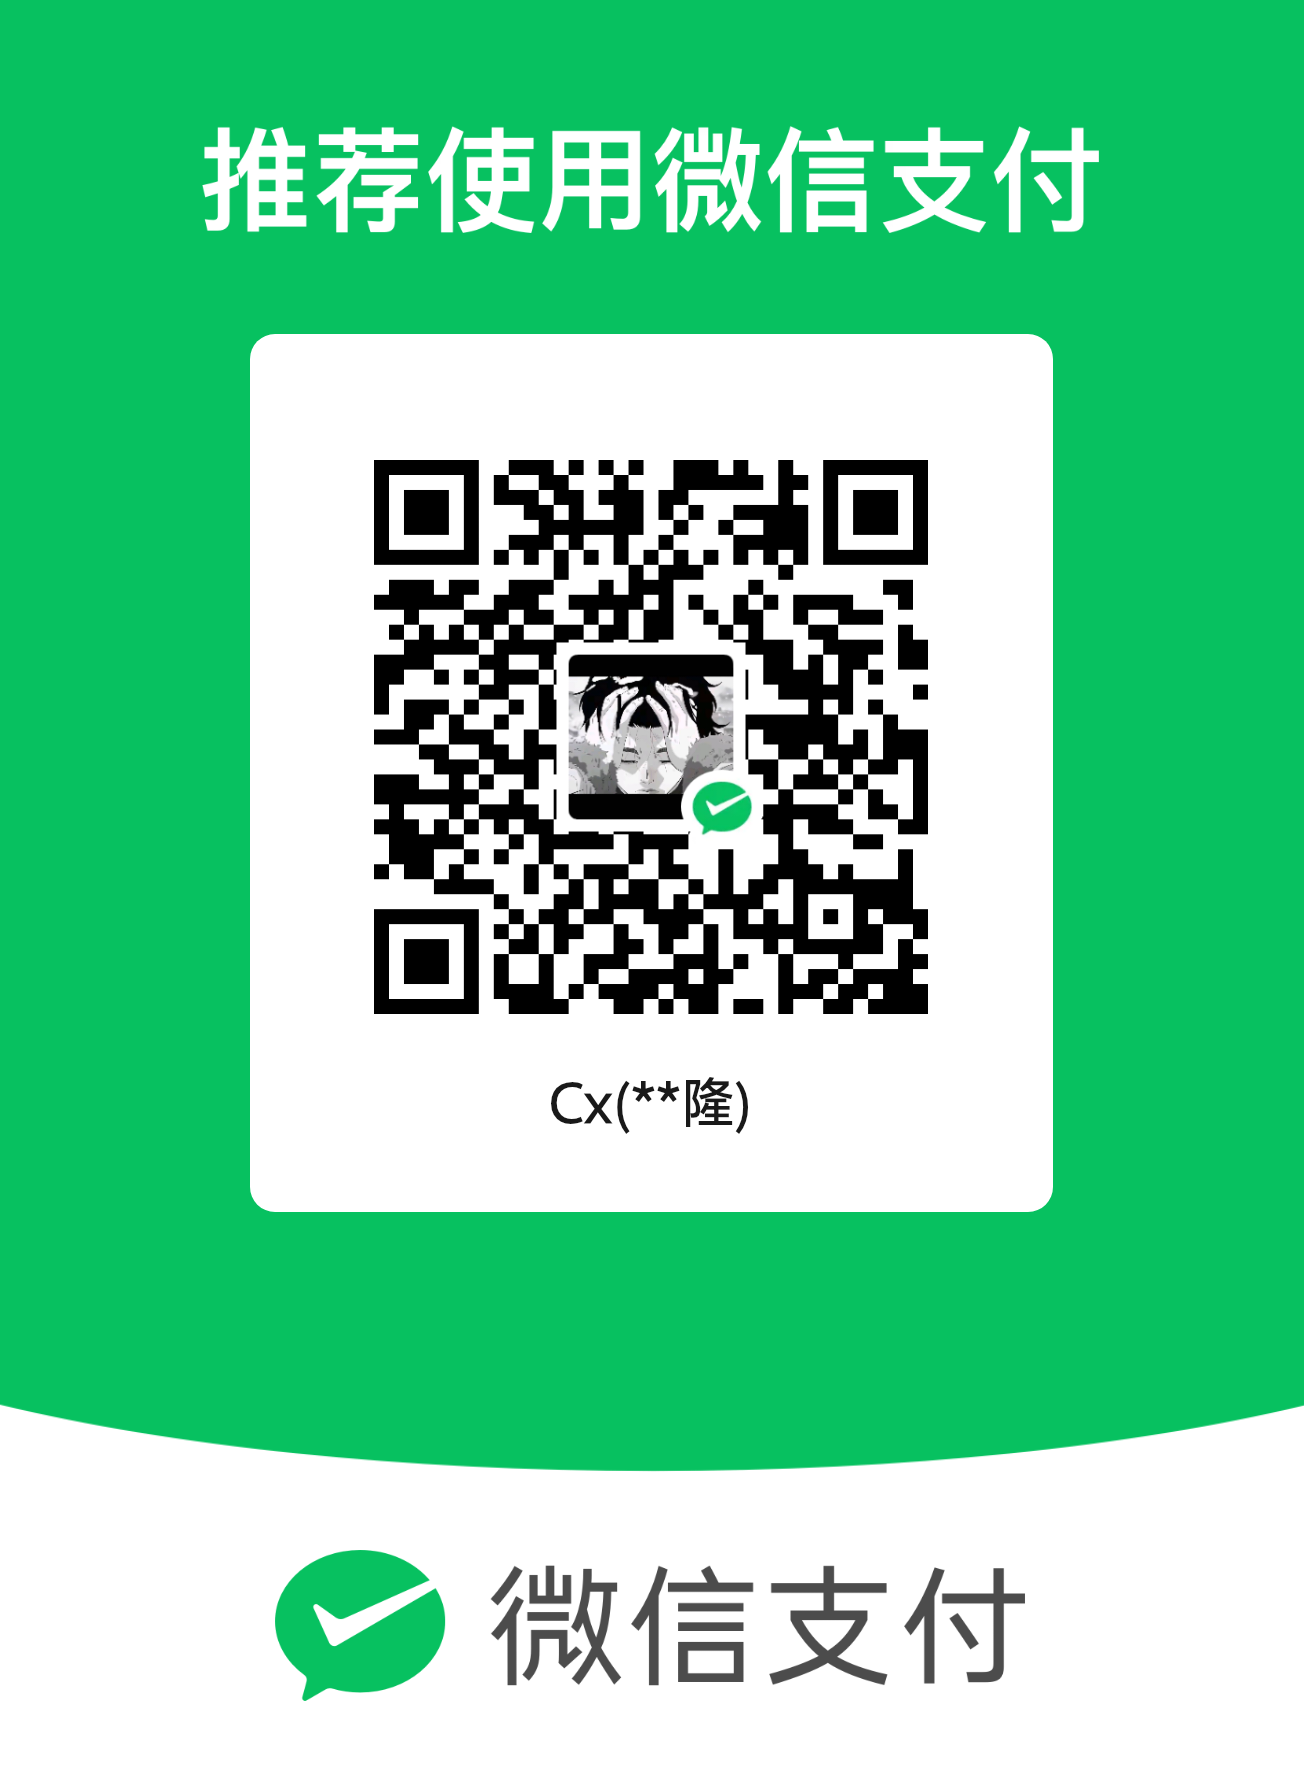
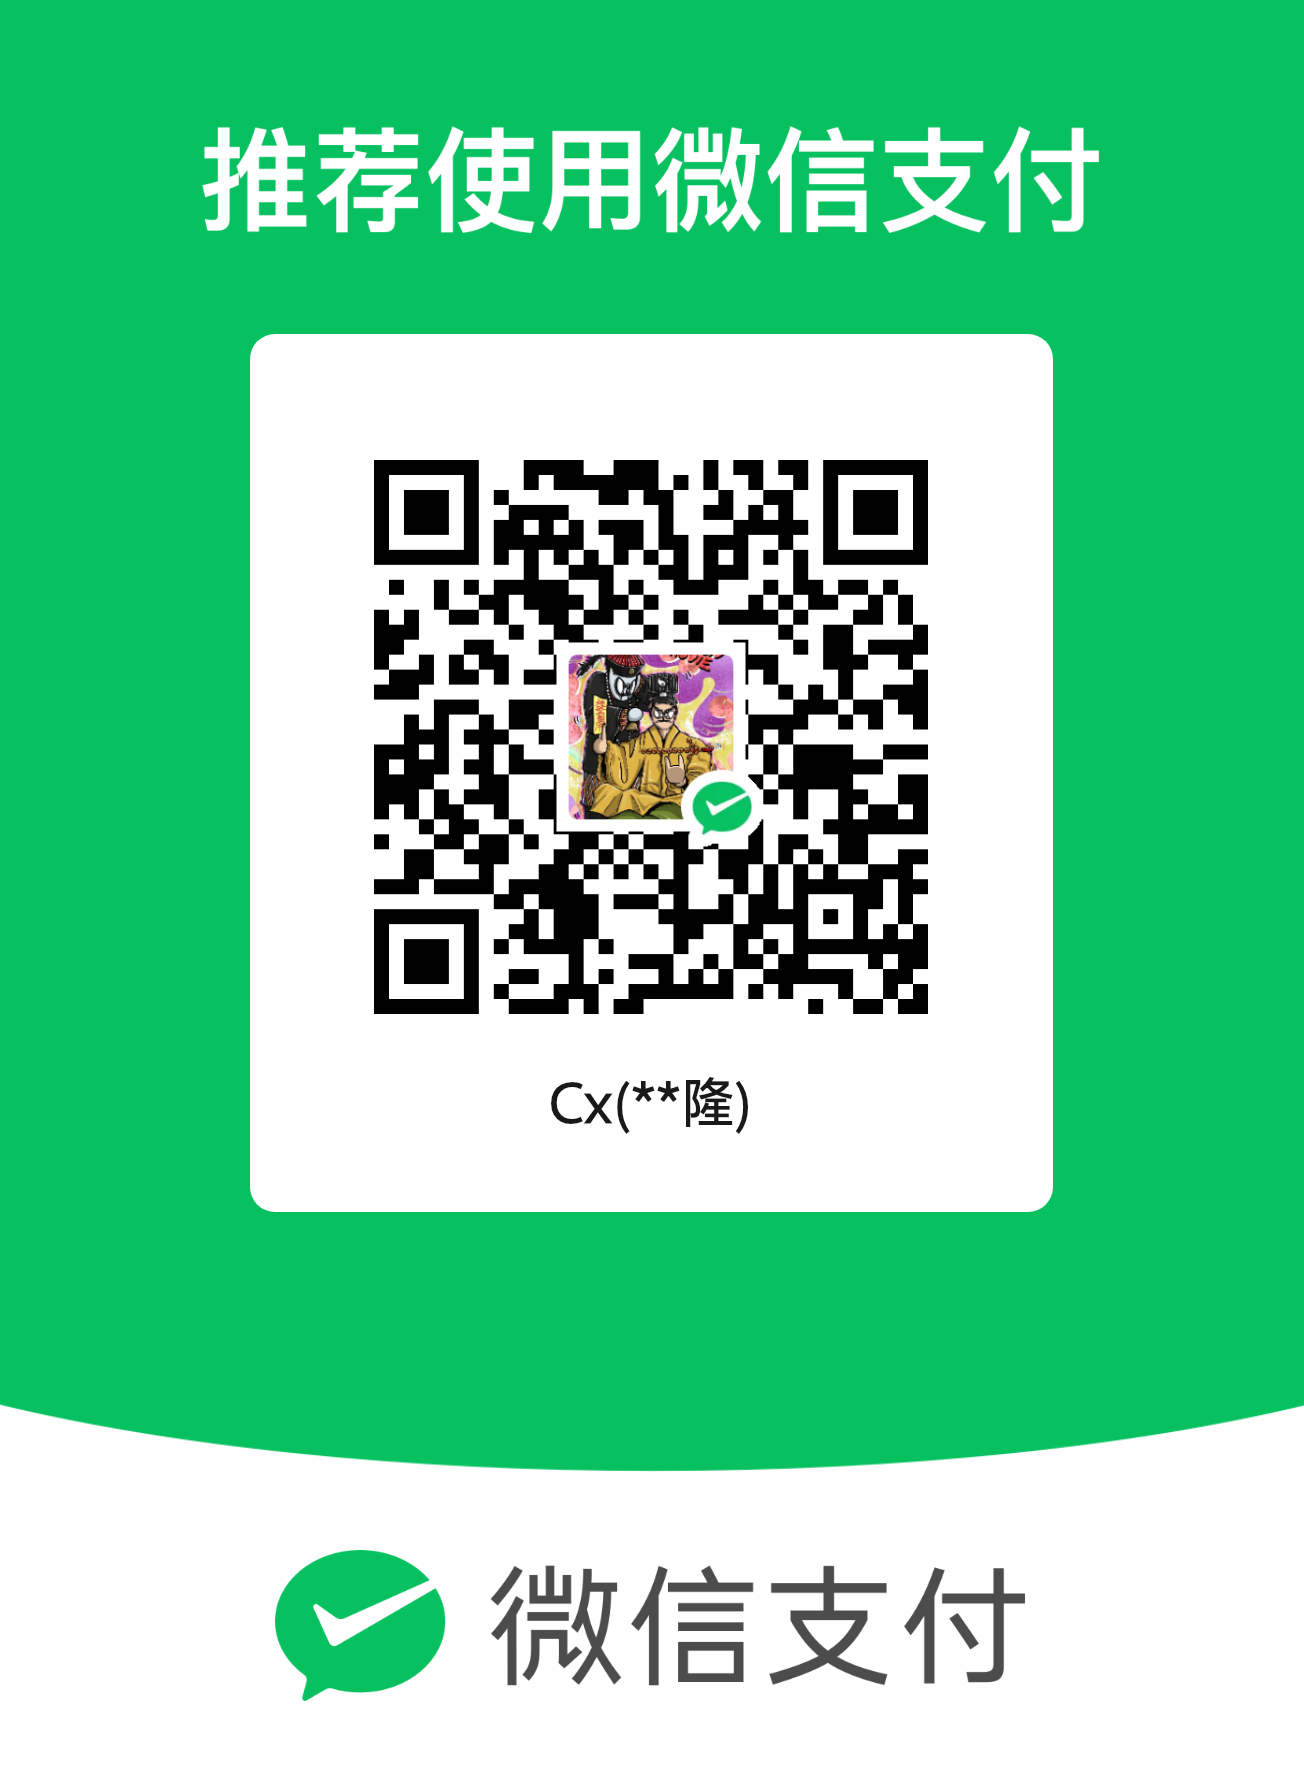
支持页：换新的微信支付收款码，并加上微信加好友二维码
站长给的两张图。收款码沿用原文件名 support-qr.png 就地替换 —— 它被 5 处引用
（src.html / index.html / web 的 vite.config、gen-sw、Support.vue），改名的话
5 处都要动，收益为零。加好友码是新文件 support-wechat.png。

两端都改了（MIGRATION.md 要求 Vue 端复刻旧站）：
· src.html：收款码 alt 改成「微信支付收款二维码」；联系作者栏 QQ 下面加一块加好友码
· web/：Support.vue 加同样一块，vite.config 的资源拷贝清单和 gen-sw 的
  预缓存白名单都带上新文件，否则 Vue 端构建出来图片是 404

二维码容器底色写死 #fff（沿用收款码原有做法）：深色主题下如果跟着主题变深底，
扫码识别率会明显下降。实测深浅两套主题下容器底色都是 rgb(255,255,255)。

这台机器没有 ImageMagick / PIL，所以只做了无损的 zlib 重压缩（解开 IDAT 用
最高等级压回去，不动像素和滤波器，三种 strategy 取最小）：
  support-qr.png     180KB → 173KB
  support-wechat.png 240KB → 223KB
压完验过 PNG 结构与 IDAT 可解（块序 IHDR,sRGB,sBIT,IDAT,IEND 完整）。

实测（真浏览器，深浅两套主题）：两张图都 loading="lazy" 正常加载、
原始尺寸 1304×1777 / 958×1415、显示 274×373 / 184×272、无 404、零报错。
25 项 verify 全绿。

Claude-Session: https://claude.ai/code/session_01SJJkU3Ea3fpiJY8gJHRUUb

Changed region(s): [[0.2761, 0.2476, 0.7362, 0.5881]]

diff --git a/index.html b/index.html
@@ -1572,7 +1572,7 @@ input[type=checkbox]{width:20px;height:20px;accent-color:var(--gold)}
     <h2 class="page-title">支持作者 · 请杯咖啡 ☕</h2>
     <p style="text-align:center;font-size:14px;color:var(--text-dim);line-height:1.9;max-width:520px;margin:0 auto">这份手册从词句整理、发音朗读到测验复习，都是<b>业余时间一点点做出来、并持续维护</b>的；域名和时间都是实打实的成本。它<b>一直免费、无广告</b>。<br>如果它在你学外语的路上帮上了忙，欢迎扫码<b>随手打赏一点</b>，让它能继续更新下去 😊<br>一块两块都是心意，谢谢你的支持！</p>
     <div style="max-width:290px;margin:18px auto 0;background:#fff;border-radius:16px;padding:8px;box-shadow:var(--shadow)">
-      <img src="support-qr.png" alt="微信收款二维码" loading="lazy" style="width:100%;height:auto;display:block;border-radius:12px">
+      <img src="support-qr.png" alt="微信支付收款二维码" loading="lazy" style="width:100%;height:auto;display:block;border-radius:12px">
     </div>
     <p style="text-align:center;font-size:12px;color:var(--text-faint);margin-top:12px">微信扫一扫 · 感谢每一份支持 ❤</p>
     <p style="text-align:center;font-size:11px;color:var(--text-faint);margin-top:18px">词典兜底数据来源：<a href="https://github.com/gugray/HanDeDict" style="color:var(--text-faint)" rel="license noopener" target="_blank">HanDeDict</a>（CC BY-SA 3.0）</p>
@@ -1581,6 +1581,11 @@ input[type=checkbox]{width:20px;height:20px;accent-color:var(--gold)}
     <div style="max-width:420px;margin:26px auto 0;padding:14px 18px;background:var(--surface-2);border:1px solid var(--border);border-radius:14px;text-align:center">
       <div style="font-size:14px;color:var(--text);font-weight:600">💬 联系作者</div>
       <div style="font-size:13px;color:var(--text-dim);margin-top:6px;line-height:1.8">使用心得、纠错、想加的功能，都欢迎来聊：<br>QQ：<b style="color:var(--gold-text);font-size:15px;letter-spacing:.5px" id="qqNum">717986230</b> <button class="btn" style="padding:3px 12px;font-size:12px;margin-left:6px" onclick="copyQQ(this)">复制</button></div>
+      <div style="font-size:13px;color:var(--text-dim);margin-top:14px">或者微信扫码加我好友 👇</div>
+      <!-- 二维码底色必须写死 #fff：深色主题下若跟着主题走会变深底，扫码识别率骤降 -->
+      <div style="max-width:200px;margin:10px auto 0;background:#fff;border-radius:14px;padding:8px;box-shadow:var(--shadow)">
+        <img src="support-wechat.png" alt="微信加好友二维码" loading="lazy" style="width:100%;height:auto;display:block;border-radius:10px">
+      </div>
     </div>
     <div style="text-align:center;margin:32px 0 10px"><button onclick="rejectDonate()" aria-label="返回首页" style="border:1px solid var(--border);background:transparent;color:var(--text-faint);border-radius:20px;padding:6px 14px;font-size:12px;font-family:inherit;cursor:pointer">🙅 下次一定 →</button></div>
     <p style="text-align:center;margin:26px 0 4px;font-size:12px"><button type="button" onclick="showSection('legal')" style="background:none;border:none;font:inherit;color:var(--text-dim);text-decoration:underline;cursor:pointer;padding:8px">隐私政策 · 用户协议</button></p>

diff --git a/src.html b/src.html
@@ -1579,7 +1579,7 @@ input[type=checkbox]{width:20px;height:20px;accent-color:var(--gold)}
     <h2 class="page-title">支持作者 · 请杯咖啡 ☕</h2>
     <p style="text-align:center;font-size:14px;color:var(--text-dim);line-height:1.9;max-width:520px;margin:0 auto">这份手册从词句整理、发音朗读到测验复习，都是<b>业余时间一点点做出来、并持续维护</b>的；域名和时间都是实打实的成本。它<b>一直免费、无广告</b>。<br>如果它在你学外语的路上帮上了忙，欢迎扫码<b>随手打赏一点</b>，让它能继续更新下去 😊<br>一块两块都是心意，谢谢你的支持！</p>
     <div style="max-width:290px;margin:18px auto 0;background:#fff;border-radius:16px;padding:8px;box-shadow:var(--shadow)">
-      <img src="support-qr.png" alt="微信收款二维码" loading="lazy" style="width:100%;height:auto;display:block;border-radius:12px">
+      <img src="support-qr.png" alt="微信支付收款二维码" loading="lazy" style="width:100%;height:auto;display:block;border-radius:12px">
     </div>
     <p style="text-align:center;font-size:12px;color:var(--text-faint);margin-top:12px">微信扫一扫 · 感谢每一份支持 ❤</p>
     <p style="text-align:center;font-size:11px;color:var(--text-faint);margin-top:18px">词典兜底数据来源：<a href="https://github.com/gugray/HanDeDict" style="color:var(--text-faint)" rel="license noopener" target="_blank">HanDeDict</a>（CC BY-SA 3.0）</p>
@@ -1588,6 +1588,11 @@ input[type=checkbox]{width:20px;height:20px;accent-color:var(--gold)}
     <div style="max-width:420px;margin:26px auto 0;padding:14px 18px;background:var(--surface-2);border:1px solid var(--border);border-radius:14px;text-align:center">
       <div style="font-size:14px;color:var(--text);font-weight:600">💬 联系作者</div>
       <div style="font-size:13px;color:var(--text-dim);margin-top:6px;line-height:1.8">使用心得、纠错、想加的功能，都欢迎来聊：<br>QQ：<b style="color:var(--gold-text);font-size:15px;letter-spacing:.5px" id="qqNum">717986230</b> <button class="btn" style="padding:3px 12px;font-size:12px;margin-left:6px" onclick="copyQQ(this)">复制</button></div>
+      <div style="font-size:13px;color:var(--text-dim);margin-top:14px">或者微信扫码加我好友 👇</div>
+      <!-- 二维码底色必须写死 #fff：深色主题下若跟着主题走会变深底，扫码识别率骤降 -->
+      <div style="max-width:200px;margin:10px auto 0;background:#fff;border-radius:14px;padding:8px;box-shadow:var(--shadow)">
+        <img src="support-wechat.png" alt="微信加好友二维码" loading="lazy" style="width:100%;height:auto;display:block;border-radius:10px">
+      </div>
     </div>
     <div style="text-align:center;margin:32px 0 10px"><button onclick="rejectDonate()" aria-label="返回首页" style="border:1px solid var(--border);background:transparent;color:var(--text-faint);border-radius:20px;padding:6px 14px;font-size:12px;font-family:inherit;cursor:pointer">🙅 下次一定 →</button></div>
     <p style="text-align:center;margin:26px 0 4px;font-size:12px"><button type="button" onclick="showSection('legal')" style="background:none;border:none;font:inherit;color:var(--text-dim);text-decoration:underline;cursor:pointer;padding:8px">隐私政策 · 用户协议</button></p>

diff --git a/web/src/views/Support.vue b/web/src/views/Support.vue
@@ -5,6 +5,7 @@ import { ref } from 'vue';
 import { useRouter } from 'vue-router';
 const router = useRouter();
 const qr = import.meta.env.BASE_URL + 'support-qr.png';
+const wxQr = import.meta.env.BASE_URL + 'support-wechat.png';
 const copied = ref(false);
 
 // 与旧站 copyShare 同行为：复制站点网址，按钮短暂变成已复制
@@ -36,7 +37,7 @@ async function copyShare() {
       一块两块都是心意，谢谢你的支持！
     </p>
 
-    <div class="qr"><img :src="qr" alt="微信收款二维码" loading="lazy"></div>
+    <div class="qr"><img :src="qr" alt="微信支付收款二维码" loading="lazy"></div>
     <p class="cap">微信扫一扫 · 感谢每一份支持 ❤</p>
 
     <p class="src">词典兜底数据来源：<a href="https://github.com/gugray/HanDeDict" rel="license noopener" target="_blank">HanDeDict</a>（CC BY-SA 3.0）</p>
@@ -52,6 +53,8 @@ async function copyShare() {
         使用心得、纠错、想加的功能，都欢迎来聊：<br>
         QQ：<b class="qq">717986230</b>
       </div>
+      <div class="ct-b">或者微信扫码加我好友 👇</div>
+      <div class="qr wx"><img :src="wxQr" alt="微信加好友二维码" loading="lazy"></div>
     </div>
 
     <div class="center back">
@@ -68,6 +71,8 @@ async function copyShare() {
 .sp-p b{color:var(--text)}
 .qr{max-width:290px;margin:18px auto 0;background:#fff;border-radius:16px;padding:8px;box-shadow:var(--shadow)}
 .qr img{width:100%;height:auto;display:block;border-radius:12px}
+/* 二维码底色写死 #fff（.qr 已有）：深色主题下变深底会明显掉识别率 */
+.qr.wx{max-width:200px;margin:10px auto 0}
 .cap{text-align:center;font-size:12px;color:var(--text-faint);margin-top:12px}
 /* 旧站这行是 11px，本项目辅助文字下限 12px */
 .src{text-align:center;font-size:12px;color:var(--text-dim);margin-top:18px}

diff --git a/sw.js b/sw.js
@@ -1,5 +1,5 @@
 // 自动生成（build.mjs），勿手改。壳网络优先；词典切片持久缓存、跨版本复用。
-const V='de-986ceb07fb',DATA='de-data',KEEP=["de.558d75a2.dat","en.6723bc5b.dat"];
+const V='de-8506dae7ba',DATA='de-data',KEEP=["de.558d75a2.dat","en.6723bc5b.dat"];
 self.addEventListener('install',e=>{e.waitUntil(caches.open(V).then(c=>c.addAll(['index.html','manifest.webmanifest','icon-192.png','icon-512.png'])).then(()=>self.skipWaiting()))});
 self.addEventListener('activate',e=>{e.waitUntil((async()=>{
   const ks=await caches.keys();

diff --git a/en-pronunciation.html b/en-pronunciation.html
@@ -24,7 +24,7 @@
 {"@type":"ListItem","position":1,"name":"英语学习手册","item":"https://www.uuoo.site/"},
 {"@type":"ListItem","position":2,"name":"英语字母与数字"}]}]}</script>
 <!-- 由 tools/gen-seo-pages.mjs 生成，勿手改；内容源自 src.html，改完请重跑 npm run gen:seo -->
-<!-- src-hash:78c2d2a576b5 -->
+<!-- src-hash:d0822f9b7f05 -->
 <style>
 :root{
   /* 底部标签栏占用的高度（含 iPhone 安全区）。所有 fixed/sticky 贴底的浮动元素

diff --git a/de-grammar.html b/de-grammar.html
@@ -24,7 +24,7 @@
 {"@type":"ListItem","position":1,"name":"德语学习手册","item":"https://www.uuoo.site/"},
 {"@type":"ListItem","position":2,"name":"德语语法速查"}]}]}</script>
 <!-- 由 tools/gen-seo-pages.mjs 生成，勿手改；内容源自 src.html，改完请重跑 npm run gen:seo -->
-<!-- src-hash:78c2d2a576b5 -->
+<!-- src-hash:d0822f9b7f05 -->
 <style>
 :root{
   /* 底部标签栏占用的高度（含 iPhone 安全区）。所有 fixed/sticky 贴底的浮动元素

diff --git a/de-numbers.html b/de-numbers.html
@@ -24,7 +24,7 @@
 {"@type":"ListItem","position":1,"name":"德语学习手册","item":"https://www.uuoo.site/"},
 {"@type":"ListItem","position":2,"name":"德语数字读法"}]}]}</script>
 <!-- 由 tools/gen-seo-pages.mjs 生成，勿手改；内容源自 src.html，改完请重跑 npm run gen:seo -->
-<!-- src-hash:78c2d2a576b5 -->
+<!-- src-hash:d0822f9b7f05 -->
 <style>
 :root{
   /* 底部标签栏占用的高度（含 iPhone 安全区）。所有 fixed/sticky 贴底的浮动元素

diff --git a/de-pronunciation.html b/de-pronunciation.html
@@ -24,7 +24,7 @@
 {"@type":"ListItem","position":1,"name":"德语学习手册","item":"https://www.uuoo.site/"},
 {"@type":"ListItem","position":2,"name":"德语发音规律"}]}]}</script>
 <!-- 由 tools/gen-seo-pages.mjs 生成，勿手改；内容源自 src.html，改完请重跑 npm run gen:seo -->
-<!-- src-hash:78c2d2a576b5 -->
+<!-- src-hash:d0822f9b7f05 -->
 <style>
 :root{
   /* 底部标签栏占用的高度（含 iPhone 安全区）。所有 fixed/sticky 贴底的浮动元素

diff --git a/en-grammar.html b/en-grammar.html
@@ -24,7 +24,7 @@
 {"@type":"ListItem","position":1,"name":"英语学习手册","item":"https://www.uuoo.site/"},
 {"@type":"ListItem","position":2,"name":"英语语法速查"}]}]}</script>
 <!-- 由 tools/gen-seo-pages.mjs 生成，勿手改；内容源自 src.html，改完请重跑 npm run gen:seo -->
-<!-- src-hash:78c2d2a576b5 -->
+<!-- src-hash:d0822f9b7f05 -->
 <style>
 :root{
   /* 底部标签栏占用的高度（含 iPhone 安全区）。所有 fixed/sticky 贴底的浮动元素

diff --git a/de-woerter.html b/de-woerter.html
@@ -24,7 +24,7 @@
 {"@type":"ListItem","position":1,"name":"德语学习手册","item":"https://www.uuoo.site/"},
 {"@type":"ListItem","position":2,"name":"主题词表"}]}]}</script>
 <!-- 由 tools/gen-seo-pages.mjs 生成，勿手改；内容源自 src.html，改完请重跑 npm run gen:seo -->
-<!-- src-hash:78c2d2a576b5 -->
+<!-- src-hash:d0822f9b7f05 -->
 <style>
 :root{
   /* 底部标签栏占用的高度（含 iPhone 安全区）。所有 fixed/sticky 贴底的浮动元素

diff --git a/web/vite.config.js b/web/vite.config.js
@@ -23,7 +23,7 @@ function copyData() {
       }
       if (existsSync('../data')) cpSync('../data', 'public/data', { recursive: true });
       // 旧站的静态资源（打赏二维码等）也一并带过来，避免两处各存一份
-      for (const f of ['support-qr.png']) {
+      for (const f of ['support-qr.png', 'support-wechat.png']) {
         if (existsSync('../' + f)) cpSync('../' + f, 'public/' + f);
       }
     },

diff --git a/CHANGELOG.md b/CHANGELOG.md
@@ -4,6 +4,10 @@
 
 ## 2026-09-17
 
+### 💬 支持页换了新收款码，并加上微信加好友
+「支持作者」页的收款二维码换成新的**微信支付**收款码；
+「联系作者」那一栏在 QQ 下面加了**微信加好友二维码**，扫一扫就能直接找到我。
+
 ### 🍷 酒类词汇补齐 38 条
 词库里原来只有 Bier / Wein / Schnaps / Alkohol 四个笼统的词，点酒单根本不够用。
 这次按类补齐：
